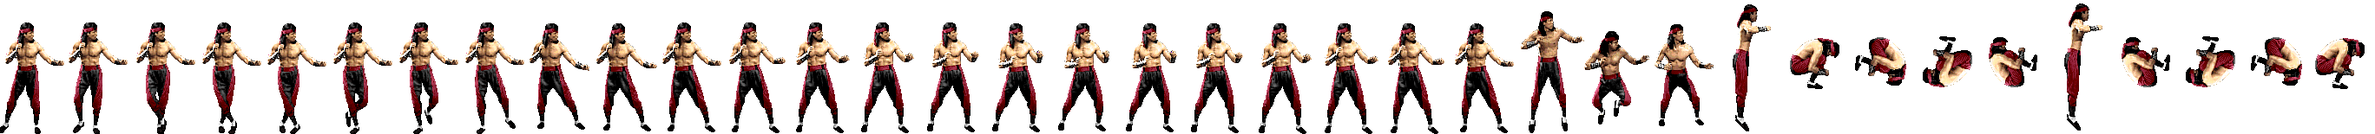
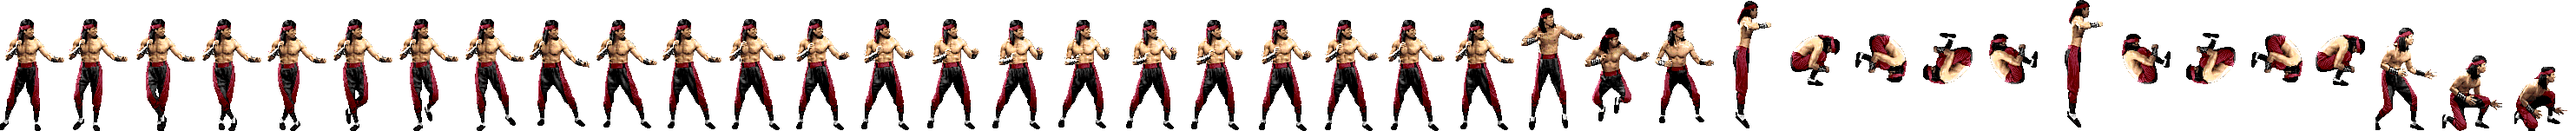
Agregado agacharse.

diff --git a/Source/Personaje.cpp b/Source/Personaje.cpp
@@ -25,6 +25,7 @@ Personaje::Personaje(Ventana* ventana, PersonajeData data, EscenarioData escenar
 	this->sprites = Personaje::loadMedia(data);
 	this->_lastFrame = 0;
 	this->_isWalking = false;
+	this->_isDucking = false;
 	this->_isJumping = false;
 	this->_isJumpingRight = false;
 	this->_isJumpingLeft = false;
@@ -73,6 +74,10 @@ void Personaje::view()
 		{
 			this->viewJump();
 		}
+	}
+	else if (this->_isDucking)
+	{
+		this->viewDuck();
 	}
 	else if (this->_isWalking)
 	{
@@ -126,6 +131,30 @@ void Personaje::viewWalking()
 	if ( aux < this->_personajeData.walk[0] || aux > this->_personajeData.walk[1])
 	{
 		_lastFrame = this->_personajeData.walk[0] * SPEED;
+	}
+	int frame = _lastFrame/SPEED;
+	//cout << frame << endl;
+	SDL_Rect* currentClip = &(this->sprites[frame]);
+	int x = get_x_px();
+	int y = get_y_px();
+	this->_handler->renderAnimation(false,x,y,_ancho_px,_alto_px,currentClip);
+}
+
+void Personaje::viewDuck()
+{
+	int aux = _lastFrame / SPEED;
+	if ( aux < this->_personajeData.duck[1] )
+	{
+		++_lastFrame;
+		aux = _lastFrame / SPEED;
+		if ( aux < this->_personajeData.duck[0] || aux > this->_personajeData.duck[1])
+		{
+			_lastFrame = this->_personajeData.duck[0] * SPEED;
+		}
+	}
+	else
+	{
+		_lastFrame = this->_personajeData.duck[1] * SPEED;
 	}
 	int frame = _lastFrame/SPEED;
 	//cout << frame << endl;
@@ -221,6 +250,7 @@ int Personaje::getHeight(Ventana* ventana, float alto_log_capa)
 
 void Personaje::moveLeft(float factor)
 {
+	this->_isDucking = false;
 	if( ( !this->_isJumping && !this->_isFalling ) || ( this->_isJumpingLeft ))
 	{
 		this->_isWalking = true;
@@ -242,6 +272,15 @@ void Personaje::moveLeft(float factor)
 bool Personaje::isLeftMargin()
 {
 	return (_pos_x == 0);
+}
+
+void Personaje::duck()
+{
+	if (  !this->isFalling() && !this->isJumping()  )
+	{
+		this->_isDucking = true;
+		this->_isWalking = false;
+	}
 }
 
 void Personaje::jump(float factor)
@@ -373,6 +412,7 @@ bool Personaje::isJumpingLeft()
 
 void Personaje::moveRight(float factor)
 {
+	this->_isDucking = false;
 	if(!( this->_isJumping ) && !( this->_isFalling ))
 	{
 		this->_isWalking = true;
@@ -407,5 +447,6 @@ float Personaje::getBeta(float factor)
 
 void Personaje::idle()
 {
+	this->_isDucking = false;
 	this->_isWalking = false;
 }

diff --git a/Headers/Personaje.h b/Headers/Personaje.h
@@ -50,6 +50,7 @@ class Personaje
 		SDL_Rect* loadMedia(PersonajeData data);
 		int _lastFrame;
 		bool _isWalking;
+		bool _isDucking;
 		bool _isJumping;
 		bool _isJumpingRight;
 		bool _isJumpingLeft;
@@ -57,6 +58,7 @@ class Personaje
 		bool _isFallingRight;
 		bool _isFallingLeft;
 		void viewWalking();
+		void viewDuck();
 		void viewJump();
 		void viewJumpRight();
 		void viewJumpLeft();
@@ -67,6 +69,7 @@ class Personaje
 		void view();
 		void moveLeft(float factor);
 		void moveRight(float factor);
+		void duck();
 		void jump(float factor);
 		void jumpRight(float factor);
 		void jumpLeft(float factor);

diff --git a/Source/Parser.cpp b/Source/Parser.cpp
@@ -73,6 +73,9 @@ void Parser::setearParseoDeSprite() {
 	this->personaje.jumpBwd[0] = personaje["jumpBwd"][0].asInt();
 	this->personaje.jumpBwd[1] = personaje["jumpBwd"][1].asInt();
 
+	this->personaje.duck[0] = personaje["duck"][0].asInt();
+	this->personaje.duck[1] = personaje["duck"][1].asInt();
+
 	this->personaje.imgPath = personaje["imgSrc"].asString();
 
 

diff --git a/Source/GameController.cpp b/Source/GameController.cpp
@@ -169,6 +169,10 @@ void GameController::getKeys()
 	{
 		this->_personaje->jump(JMP_FACTOR);
 	}
+	else if(currentKeyStates[ SDL_SCANCODE_DOWN ])
+	{
+		this->_personaje->duck();
+	}
 	else if( currentKeyStates[ SDL_SCANCODE_LEFT ] )
 	{
 		//this-> moveLayersRight();

diff --git a/Headers/PersonajeData.h b/Headers/PersonajeData.h
@@ -27,6 +27,7 @@ class PersonajeData
 		int jumpUp[2];
 		int jumpFwd[2];
 		int jumpBwd[2];
+		int duck[2];
 
 		string imgPath;
 };
